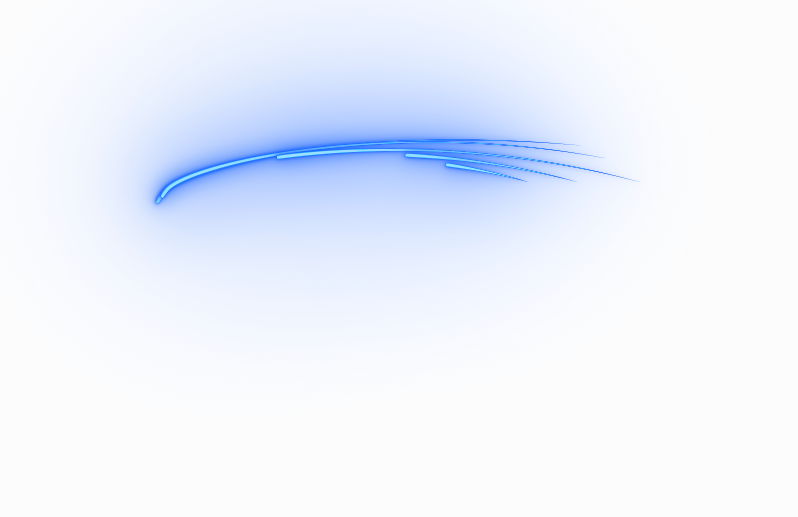
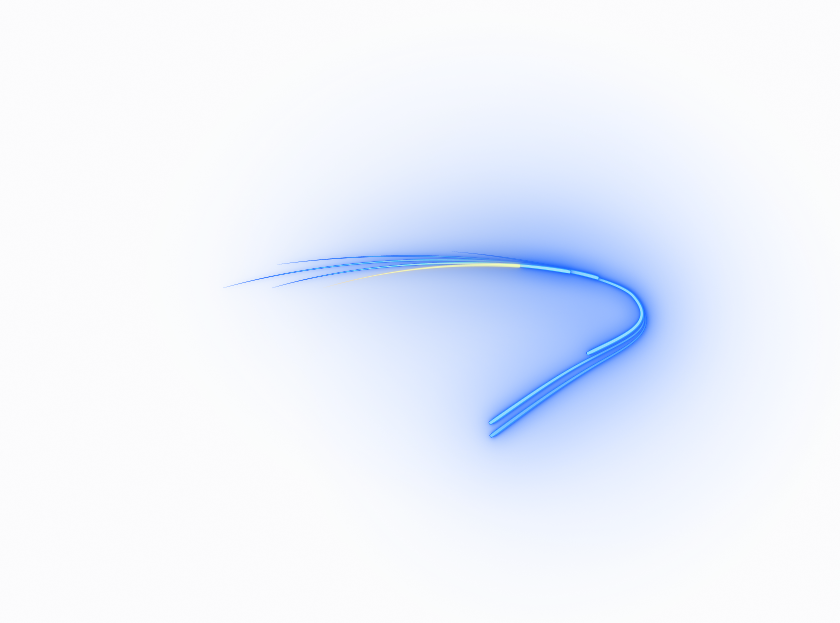
New lines and line intro

Changed region(s): [[0.1504, 0.0928, 0.8722, 0.8046]]

diff --git a/XaxisCluster/main.qml b/XaxisCluster/main.qml
@@ -18,13 +18,15 @@ Window {
 
     // Image string
     property string lineImageLeft: "qrc:/Sequences/LineIntro/Line_intro_001_premult_5.png"
+    property string lineImageRight: "qrc:/Sequences/LineIntro/Line_intro_001_premult_5.png"
 
     // Line intro image sequence number
     property int imageSeqNo: 0
 
     onImageSeqNoChanged: {
-        lineImageLeft = "qrc:/Sequences/LineIntro/Line_intro_001_premult_"
+        lineImageRight = "qrc:/Sequences/LineIntro/Line_intro_001_premult_"
                 + imageSeqNo.toFixed(0) + ".png";
+        lineImageLeft = lineImageRight;
     }
 
     // Opacities
@@ -124,13 +126,13 @@ Window {
         opacity: warningIconOpacity
 
         Image {
-            source: "qrc:/Images/Icons/Warning_engine_001.ktx"
+            source: "qrc:/Images/Icons/Warning_engine_001.png"
         }
         Image {
-            source: "qrc:/Images/Icons/Warning_oil_001.ktx"
+            source: "qrc:/Images/Icons/Warning_oil_001.png"
         }
         Image {
-            source: "qrc:/Images/Icons/Warning_battery_001.ktx"
+            source: "qrc:/Images/Icons/Warning_battery_001.png"
         }
     }
 
@@ -143,13 +145,13 @@ Window {
         opacity: warningIconOpacity
 
         Image {
-            source: "qrc:/Images/Icons/Warning_parkingBrake_001.ktx"
+            source: "qrc:/Images/Icons/Warning_parkingBrake_001.png"
         }
         Image {
-            source: "qrc:/Images/Icons/Warning_handbBrake_001.ktx"
+            source: "qrc:/Images/Icons/Warning_handbBrake_001.png"
         }
         Image {
-            source: "qrc:/Images/Icons/Warning_ABS_001.ktx"
+            source: "qrc:/Images/Icons/Warning_ABS_001.png"
         }
     }
 
@@ -159,6 +161,7 @@ Window {
         anchors.bottom: bottomLeftFrame.top
         anchors.rightMargin: linesSideMargin
         anchors.bottomMargin: linesBottomMargin
+        mirror: !adasview.isRunning
         source: lineImageLeft
         opacity: linesOpacity
     }
@@ -184,8 +187,8 @@ Window {
         anchors.bottom: bottomRightFrame.top
         anchors.leftMargin: linesSideMargin
         anchors.bottomMargin: linesBottomMargin
-        mirror: true
-        source: lineImageLeft
+        mirror: adasview.isRunning
+        source: lineImageRight
         opacity: linesOpacity
     }
 
@@ -352,7 +355,7 @@ Window {
             property: "imageSeqNo"
             duration: 1000
             from: 5
-            to: 29
+            to: 24
         }
         // Opacity changes for lines
         PropertyAnimation {
@@ -366,6 +369,7 @@ Window {
         ScriptAction {
             script: {
                 lineImageLeft = "qrc:/Images/LineGroup_Left_matted.ktx";
+                lineImageRight = "qrc:/Images/LineGroup_Right_matted.ktx";
                 linesBottomMargin = 0;
                 linesSideMargin = 20;
                 adasview.isRunning = true;
